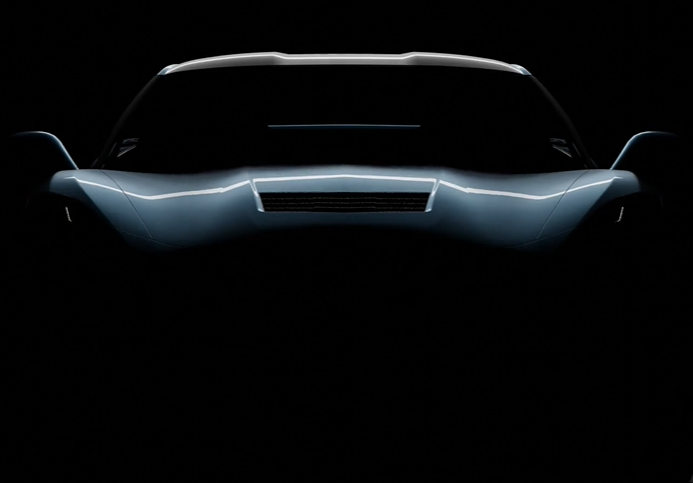
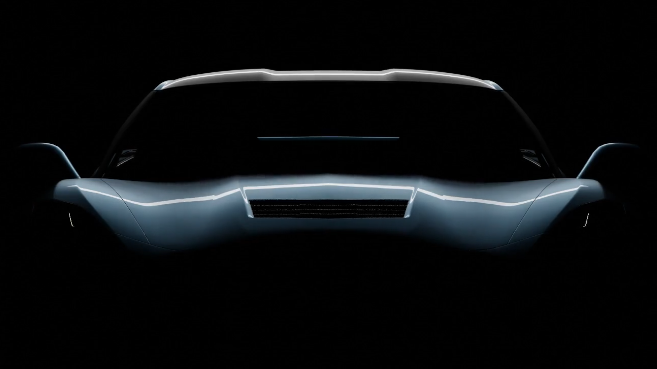
responsive to mobile screen

diff --git a/client/src/pages/Home.css b/client/src/pages/Home.css
@@ -65,7 +65,7 @@ body, html {
     font-size: 2rem!important;
     font-weight: 500!important;
     font-family: 'Orbitron'!important;
-    margin-top: 190px!important;;
+    margin-top: 95px!important;;
     text-shadow: 2px 2px 10px rgba(0, 0, 0, 0.7);
     animation: fadeIn 1.5s ease-in-out;
   }
@@ -228,6 +228,7 @@ body, html {
   }
   
   .scroll-button.left {
+    display: none;
     position: absolute;
     left: 10px; /* Adjust position as needed */
   }
@@ -280,20 +281,21 @@ body, html {
   }
   
   .scroll-button.right {
+    display: none;
     position: absolute;
     right: 10px; /* Adjust position as needed */
   }
   
   .testimonials-container {
     display: flex;
-    overflow-x: auto; /* Enable horizontal scrolling */
+    overflow-x: auto;
     gap: 30px;
-    padding-bottom: 20px; /* Add some padding at the bottom for scrollbar */
-    margin: 0 70px; /* Add left and right margins */
+    padding-bottom: 20px;
+    margin: 0 80px;
     padding-top: 15px;
-    padding-left: 15px;
-    scrollbar-width: none; /* Hide scrollbar for Firefox */
-  }
+    /* padding-left: 15px; */
+    scrollbar-width: none;
+}
   
   /* Hide scrollbar for Webkit browsers (Chrome, Safari) */
   .testimonials-container::-webkit-scrollbar {
@@ -404,7 +406,8 @@ body, html {
   /* Intro Box */
   .intro-box {
     text-align: center;
-    padding-right: 60px;
+    margin-right: 100px;
+    margin-top: 100px;
     border-radius: 20px;
     z-index: 2; /* Ensure content is above the video */
   }
@@ -478,6 +481,51 @@ body, html {
     .title{
       font-size: 1.8em!important;
     }
+
+    .video-background-home {
+      /* position: absolute; */
+      top: 0;
+      left: 0;
+      width: 100%;
+      margin-top: 175px;
+      height: 20%;
+      object-fit: cover;
+      z-index: 1;
+  }
+
+  .scroll-button.left {
+    position: absolute;
+    width:0.5px;
+    display: none;
+    height:45px;
+    left: 10px; /* Adjust position as needed */
+  }
+  
+  .scroll-button.right {
+    position: absolute;
+    display: none;
+    width:0.5px;
+    height:45px;
+    right: 10px; /* Adjust position as needed */
+  }
+
+  .testimonials-container {
+    display: flex;
+    overflow-x: auto;
+    gap: 30px;
+    padding-bottom: 20px;
+    margin: 0 30px;
+    padding-top: 15px;
+    /* padding-left: 15px; */
+    scrollbar-width: none;
+}
+.intro-box {
+  text-align: center;
+  margin-right: 0px;
+  margin-top: 20px;
+  border-radius: 20px;
+  z-index: 2; /* Ensure content is above the video */
+}
   }
 
   

diff --git a/client/src/pages/Reviews.css b/client/src/pages/Reviews.css
@@ -10,7 +10,7 @@
 
 .intro-box-review {
   text-align: center;
-  margin-right: 55px;
+  margin-right: 100px;
   margin-left: 40px;
   border-radius: 20px;
   z-index: 2;
@@ -248,5 +248,93 @@
     padding: 10px 100px;
     font-size: 1rem;
     white-space: nowrap;
+  }
+}
+
+/* Responsive Design for Phones - Vertical Stack */
+@media (max-width: 768px) {
+  .title-section {
+    flex-direction: column; /* Ensure vertical stacking */
+    height: auto;
+  }
+
+  .video-background-review {
+    width: 100%; /* Full width for video */
+    height: auto; /* Maintain aspect ratio */
+    margin-top: 100px; /* Adjust top margin */
+    margin-bottom: 20px; /* Space between video and text */
+  }
+
+  .intro-box-review {
+    margin: 0; /* Reset margins */
+    text-align: center; /* Center text */
+    padding: 0 20px; /* Add horizontal padding */
+  }
+
+  .review-title {
+    margin-top: 0 !important;
+    font-size: 1.8rem !important;
+  }
+
+  .subtitle {
+    font-size: 1.2rem;
+  }
+
+  #review-button-scroll {
+    padding: 10px 40px;
+    font-size: 1rem;
+    margin-top: 15px;
+    margin-bottom: 30px;
+  }
+
+  /* Adjust form section for mobile */
+  .review-form-section {
+    padding: 1rem;
+    max-width: 90%;
+    margin-top: 30px; /* Add space above form */
+  }
+
+  #review-title {
+    font-size: 1.5rem;
+    margin-top: 30px;
+  }
+
+  .form-input,
+  .form-textarea {
+    font-size: 0.9rem;
+  }
+
+  .star {
+    font-size: 1.5rem;
+  }
+
+  .submit-button {
+    padding: 10px 80px;
+    font-size: 1rem;
+  }
+}
+
+/* For very small screens (optional adjustments) */
+@media (max-width: 480px) {
+  .video-background-review {
+    margin-top: 170px; /* Smaller top margin */
+    margin-bottom: 70px;
+  }
+
+  .review-title {
+    font-size: 1.5rem !important;
+  }
+
+  .subtitle {
+    font-size: 1rem;
+  }
+
+  #review-button-scroll {
+    padding: 8px 30px;
+    font-size: 0.9rem;
+  }
+
+  .submit-button {
+    padding: 8px 60px;
   }
 }

diff --git a/client/src/pages/About.css b/client/src/pages/About.css
@@ -353,7 +353,7 @@
 
 .hero-image {
   margin-top: 230px;
-  width: 94%;
+  width: 95%;
   margin-left: 60px;
   height: 100%;
   /* object-fit: cover; */
@@ -361,6 +361,7 @@
 }
 
 .intro-box-about {
+  margin-top: 100px;
   flex: 1;
   display: flex;
   flex-direction: column;
@@ -379,11 +380,20 @@
   
   .hero-image-container {
     height: 50vh;
-    width: 100%;
+    width: 90%;
   }
+
+  .hero-image {
+    margin-top: 138px;
+    width: 92%;
+    margin-left: 15px;
+    height: 87%;
+    /* object-fit: cover; */
+    /* object-position: center; */
+}
   
-  .intro-box {
-    height: 50vh;
+  .intro-box-about {
+    height: 35vh;
     width: 100%;
   }
 }

diff --git a/client/src/pages/Contact.css b/client/src/pages/Contact.css
@@ -2,7 +2,7 @@
 
 .contact-container {
   margin: 0 auto;
-  background: linear-gradient(180deg, #000000, #0f161d); /* Dark metallic gradient */
+  background: linear-gradient(180deg, #000000, #000000); /* Dark metallic gradient */
   padding: 20px;
   font-family: Arial, sans-serif;
   box-shadow: 0 4px 8px rgba(0, 0, 0, 0.1);
@@ -65,6 +65,10 @@
 
 /* Stack vertically for phone/tablet view */
 @media (max-width: 768px) {
+  .video-background-contact {
+    height: 50%;
+  }
+
   .contact-columns {
     flex-direction: column; /* Stack vertically */
   }
